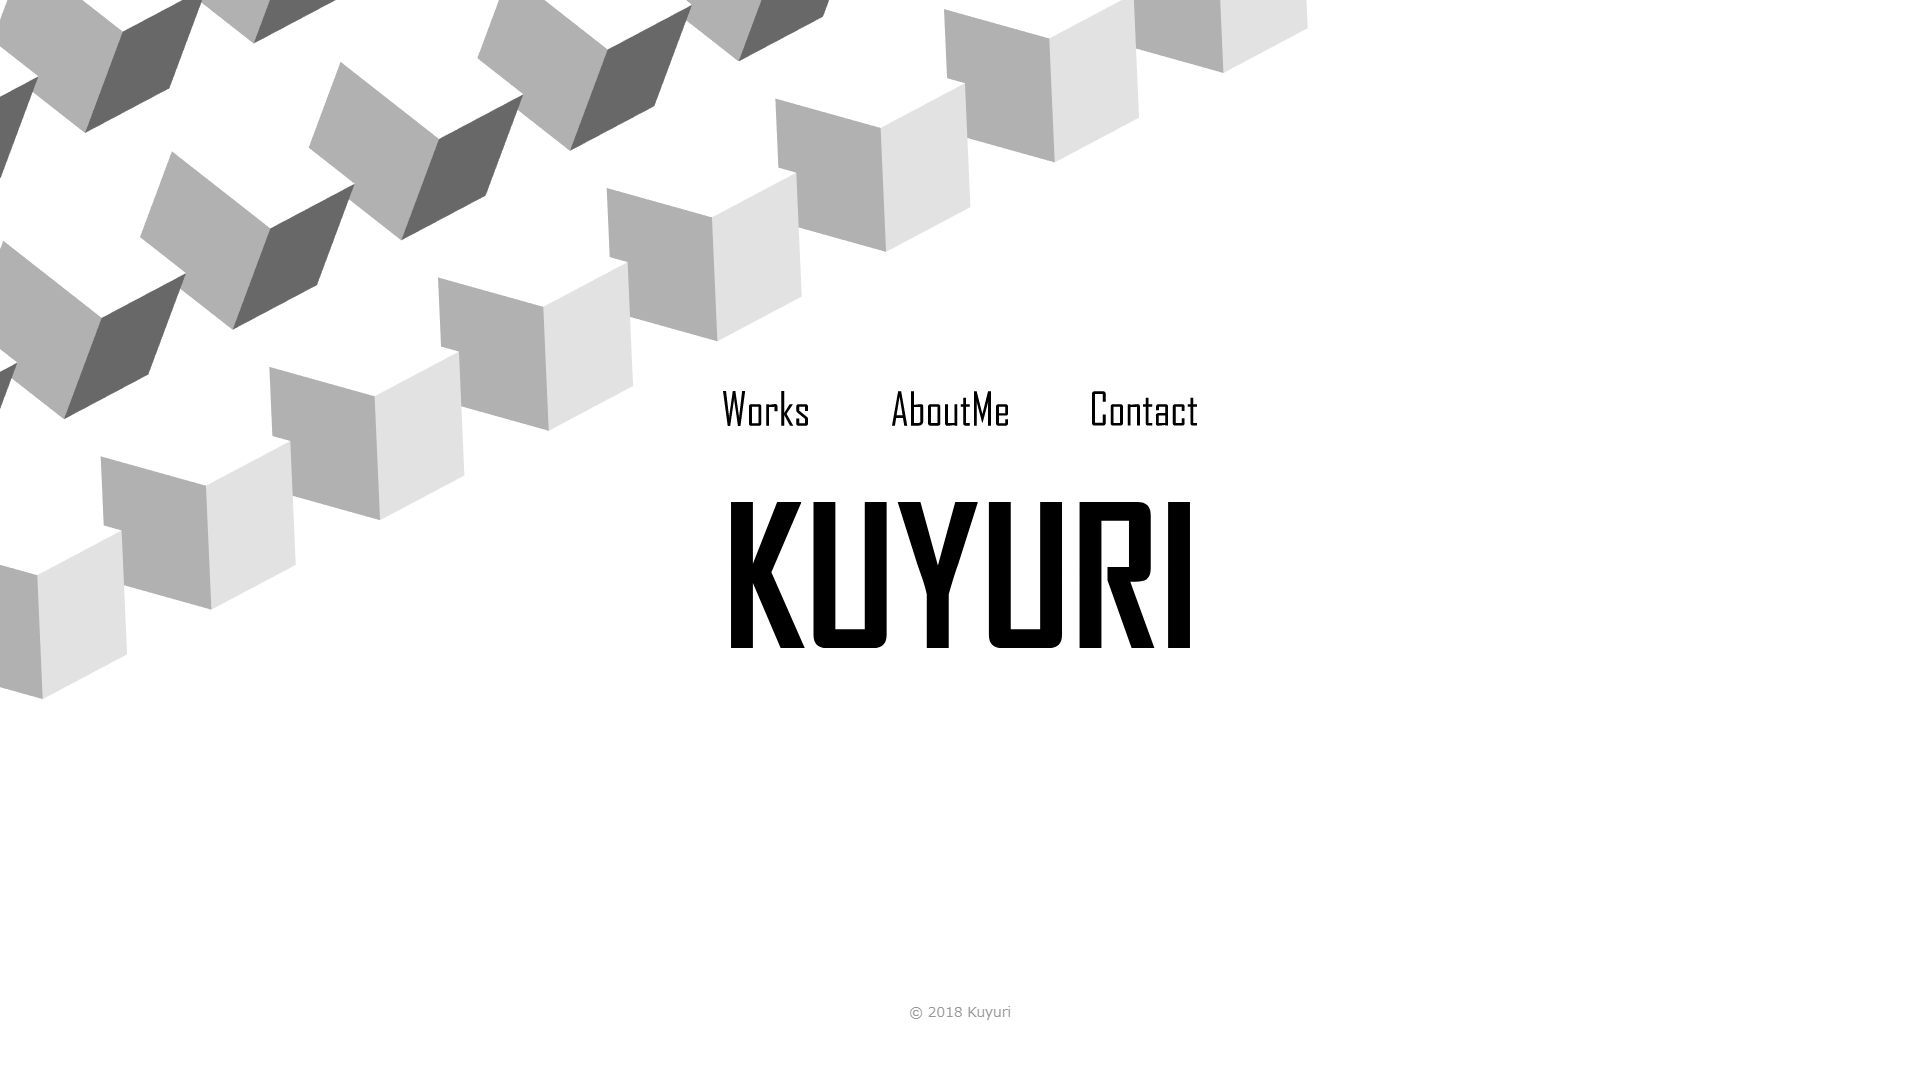
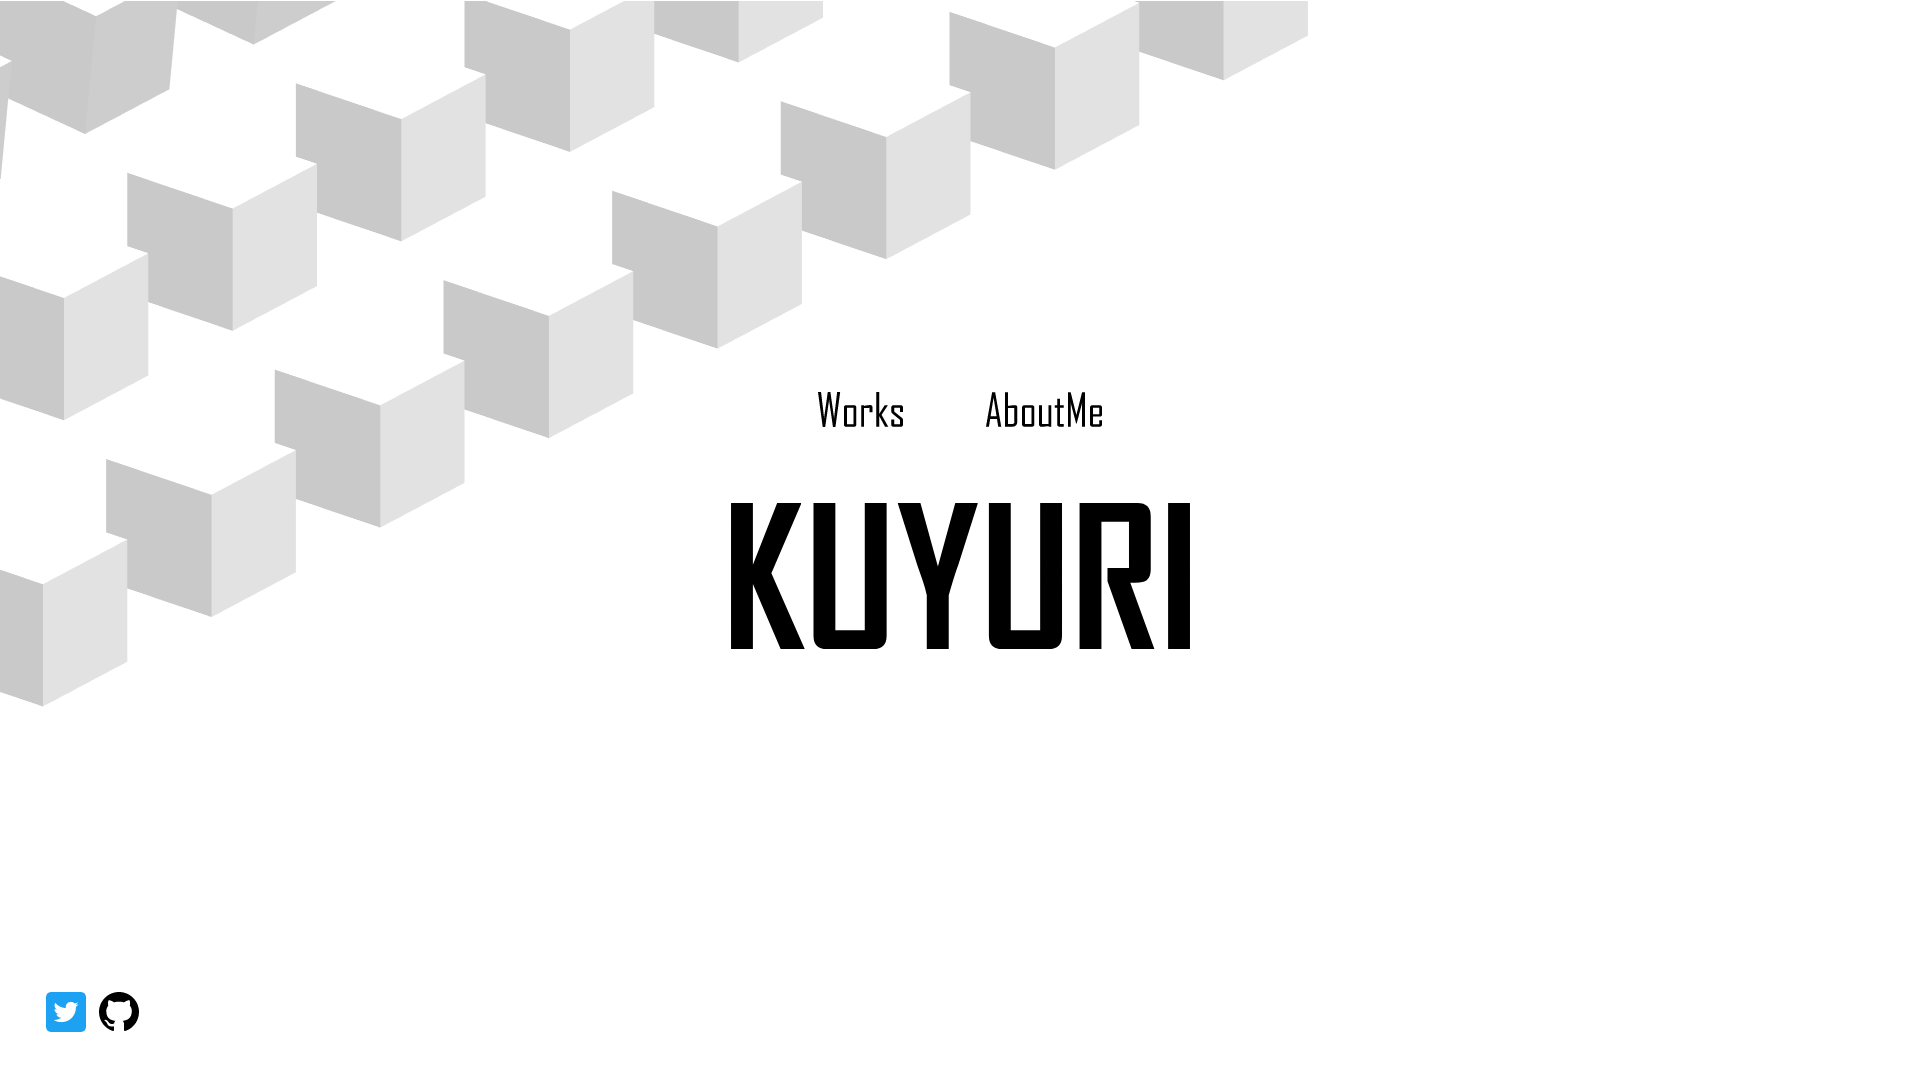
updated website

diff --git a/dist/index.html b/dist/index.html
@@ -2,7 +2,10 @@
 <html>
     <head>
         <meta charset="utf-8">
-        <title>MyWebSiteMainVisual-v.01</title>
+        <title>kuyuri-iroha.com-v.01</title>
+        <base href="">
+        <meta name="description" content="私、クユリいろはのウェブサイトです。">
+        <meta name="author" content="Kuyuri">
         <meta name="copyright" content="© 2018 Kuyuri">
         <meta name="viewport" content="width=device-width, initial-scale=1">
         <link rel="stylesheet" href="css/reset.css">
@@ -43,19 +46,11 @@
                             </div>
                         </a>
                     </li>
-                    <li class="k-globalNavItem">
-                        <a>
-                            <div class="k-animBox k-contact">
-                                <svg width="82px" viewBox="0 0 105.41 34.5">
-                                    <use xlink:href="#Contact"></use>
-                                </svg>
-                            </div>
-                        </a>
-                    </li>
                 </ul>
             </header>
             <section id="k-mainVitual">
                 <canvas id="k-mainVitualAnim"></canvas>
+                <div id="k-mainVitualMask"></div>
             </section>
             <main id="k-main">
                 <div id="k-topContents">
@@ -79,15 +74,6 @@
                                     </div>
                                 </a>
                             </li>
-                            <li class="k-navItem">
-                                <a>
-                                    <div class="k-animBox k-contact">
-                                        <svg width="105px" height="35px" viewBox="0 0 105.41 34.5">
-                                            <use xlink:href="#Contact"></use>
-                                        </svg>
-                                    </div>
-                                </a>
-                            </li>
                         </ul>
                     </nav>
                     <div id="k-mainLogo">
@@ -97,9 +83,6 @@
                     </div>
                 </div>
             </main>
-            <footer id="k-footer">
-                <div class="k-copywrite">© 2018 Kuyuri</div>
-            </footer>
             <svg id="k-svgDef" version="1.1" xmlns="http://www.w3.org/2000/svg" xmlns:xlink="http://www.w3.org/1999/xlink">
                 <defs>
                     <style>.cls-1 { fill-rule: evenodd; fill: #222, inherit; }</style>
@@ -107,7 +90,6 @@
                     <path id="Works" class="cls-1" d="M720.39 432.113l-2.922 24.807q-.109 1.626-.11 2.461-.043-1.626-.088-2.461l-3.537-24.807h-2.615l-3.56 24.807q-.11 1.626-.088 2.461-.064-1.626-.087-2.461l-2.923-24.807h-3.032l4.68 34.475h2.483l3.735-25.928q.088-1.319.088-2.021.066 1.339.088 2.021l3.736 25.928h2.482l4.681-34.475h-3.011zm19.029 15.487a2.195 2.195 0 0 0-2.483-2.483h-7.336a2.185 2.185 0 0 0-2.461 2.483v16.413a2.185 2.185 0 0 0 2.461 2.487h7.339a2.195 2.195 0 0 0 2.483-2.483v-16.417zm-9.361 16.325v-16.234h6.442v16.238h-6.438zm25.313-16.545a2.127 2.127 0 0 0-2.417-2.4 20.471 20.471 0 0 0-2.923.263q-1.471.243-2.922.462v-.593h-2.922v21.388h2.922v-18.589l5.383-.176v4.417h2.879v-4.768zm9.053 7.273l6.218-9.449v-.087h-3.142l-5.493 8.833v-21.837h-2.923v34.387h2.923v-10.9l5.888 10.9h3.186zm21.247 5.317a2.818 2.818 0 0 0-1.077-2.329l-7.712-6.262v-3.736h5.911v4.219h2.834v-4.262a2.195 2.195 0 0 0-2.483-2.483h-6.613a2.194 2.194 0 0 0-2.483 2.483v3.559a2.788 2.788 0 0 0 1.1 2.285l7.647 6.262v4.263h-5.911v-4.812h-2.884v4.856a2.194 2.194 0 0 0 2.483 2.483h6.7a2.195 2.195 0 0 0 2.483-2.483v-4.043z" transform="translate(-701.438 -432.125)"/>
                     <path id="News" class="cls-1" d="M867.258 432.113h-2.879v24.851l-9.008-24.851h-2.286v34.387h2.879v-25.291l9.184 25.291h2.11v-34.387zm17.095 28.037h-2.835v3.911h-6.284v-7.734h8.13l.989-1.033v-7.694a2.185 2.185 0 0 0-2.461-2.483h-7.032a2.185 2.185 0 0 0-2.46 2.483v16.413a2.185 2.185 0 0 0 2.461 2.483h7.032a2.185 2.185 0 0 0 2.461-2.483v-3.863zm-9.119-6.15v-6.44h6.284v6.44h-6.284zm30.322-8.877l-3.01 16.479-3.12-16.479h-2.549l-3.12 16.479-3.01-16.479h-2.747l4.417 21.423h2.57l3.142-16.238 3.142 16.238h2.615l4.417-21.423h-2.747zm17.864 14.853a2.818 2.818 0 0 0-1.077-2.329l-7.712-6.262v-3.736h5.911v4.219h2.834v-4.268a2.195 2.195 0 0 0-2.483-2.483h-6.614a2.195 2.195 0 0 0-2.479 2.483v3.559a2.787 2.787 0 0 0 1.1 2.285l7.647 6.262v4.263h-5.911v-4.812h-2.879v4.856a2.195 2.195 0 0 0 2.483 2.483h6.7a2.195 2.195 0 0 0 2.483-2.483v-4.043z" transform="translate(-853.094 -432.125)"/>
                     <path id="AboutMe" class="cls-1" d="M985.616 432.025h-3.01l-6.13 34.387v.088h2.944l1.209-7.646h6.833l1.209 7.646h3.029zm-4.592 24.126l3.032-18.633 3.011 18.633h-6.043zm26.736-8.767a2.132 2.132 0 0 0-2.43-2.4 28.364 28.364 0 0 0-3.45.285l-3.475.44v-13.6h-2.923v34.391h7.738a4.4 4.4 0 0 0 3.25-1.307 4.488 4.488 0 0 0 1.29-3.285v-14.524zm-5.31 16.545h-4.045v-16.018l6.435-.176v13.733a2.146 2.146 0 0 1-2.39 2.461zm22.37-16.325a2.2 2.2 0 0 0-2.49-2.483h-7.34a2.184 2.184 0 0 0-2.46 2.483v16.413a2.184 2.184 0 0 0 2.46 2.483h7.34a2.2 2.2 0 0 0 2.49-2.483v-16.417zm-9.36 16.325v-16.238h6.43v16.238h-6.43zm26.36-18.808h-2.88v18.588l-6.48.176v-18.764h-2.88v19.138a2.1 2.1 0 0 0 2.38 2.373 29.16 29.16 0 0 0 3.49-.264c1.16-.146 2.32-.3 3.49-.461v.593h2.88v-21.379zm12.46 18.808h-3.73v-16.238h3.73v-2.57h-3.73v-6.658h-2.88v6.658h-2.57v2.57h2.57v16.326a2.184 2.184 0 0 0 2.46 2.483h4.15v-2.571zm21.09-31.816h-2.83l-5.58 22.368a8.011 8.011 0 0 0-.09.989 7.672 7.672 0 0 0-.09-.989l-5.58-22.368h-2.83v34.387h2.88v-21.775c0-.293-.11-1.194-.31-2.7l5.62 21.248h.62l5.62-21.248q-.3 2.243-.3 2.7v21.775h2.87v-34.387zm17.1 28.037h-2.83v3.911h-6.29v-7.734h8.13l.99-1.033v-7.694a2.184 2.184 0 0 0-2.46-2.483h-7.03a2.184 2.184 0 0 0-2.46 2.483v16.413a2.184 2.184 0 0 0 2.46 2.483h7.03a2.184 2.184 0 0 0 2.46-2.483v-3.863zm-9.12-6.15v-6.44h6.29v6.44h-6.29z" transform="translate(-976.469 -432.031)"/>
-                    <path id="Contact" class="cls-1" d="M1139.77 455.338h-3.08v8.462h-7.65v-28.985h7.65v7.735h3.08v-8a2.34 2.34 0 0 0-.71-1.758 2.437 2.437 0 0 0-1.78-.681h-8.85a2.332 2.332 0 0 0-2.44 2.439v29.509a2.332 2.332 0 0 0 2.44 2.439h8.85a2.437 2.437 0 0 0 1.78-.681 2.34 2.34 0 0 0 .71-1.758v-8.723zm17.27-7.734a2.194 2.194 0 0 0-2.48-2.483h-7.34a2.184 2.184 0 0 0-2.46 2.483v16.413a2.184 2.184 0 0 0 2.46 2.483h7.34a2.194 2.194 0 0 0 2.48-2.483v-16.417zm-9.36 16.325v-16.238h6.44v16.238h-6.44zm26.41-16.545a2.136 2.136 0 0 0-2.44-2.4 29.048 29.048 0 0 0-3.47.263q-1.74.243-3.45.462v-.593h-2.92v21.384h2.92v-18.589l6.44-.176v18.765h2.92v-19.116zm12.41 16.545h-3.73v-16.238h3.73v-2.57h-3.73v-6.658h-2.88v6.658h-2.57v2.57h2.57v16.326a2.184 2.184 0 0 0 2.46 2.483h4.15v-2.571zm15.82-16.325a2.184 2.184 0 0 0-2.46-2.483h-7.03a2.184 2.184 0 0 0-2.46 2.483v3.6h2.84v-3.644h6.28v6.44h-6.88a2.185 2.185 0 0 0-2.48 2.46v7.8a2.106 2.106 0 0 0 2.39 2.373 29.624 29.624 0 0 0 3.45-.264q1.74-.219 3.48-.461v.592h2.87v-18.9zm-9.36 16.369v-7.69h6.53v7.558zm26.02-4.812h-2.88v4.768h-6.06v-16.238h6.06v4.175h2.88v-4.266a2.184 2.184 0 0 0-2.46-2.483h-6.95a2.184 2.184 0 0 0-2.46 2.483v16.413a2.184 2.184 0 0 0 2.46 2.483h6.95a2.184 2.184 0 0 0 2.46-2.483v-4.856zm12.44 4.768h-3.74v-16.238h3.74v-2.57h-3.74v-6.658h-2.88v6.658h-2.57v2.57h2.57v16.326a2.184 2.184 0 0 0 2.46 2.483h4.16v-2.571z" transform="translate(-1126 -432.125)"/>
                 </defs>
             </svg>
         </div>

diff --git a/dist/css/top.css b/dist/css/top.css
@@ -83,10 +83,6 @@ a:link, a:visited, a:hover, a:active {
     width: 120px;
     height: 55px;
 }
-#k-globalNavM .k-contact {
-    width: 112px;
-    height: 55px;
-}
 
 #k-mainVitualAnim {
     display: block;
@@ -95,6 +91,14 @@ a:link, a:visited, a:hover, a:active {
     position: fixed;
     z-index: 0;
 }
+#k-mainVitualMask {
+    display: block;
+    width: 100%;
+    height: 100%;
+    position: fixed;
+    z-index: 1;
+    background-color: rgba(255, 255, 255, 0.3);
+}
 
 #k-main {
     position: absolute;
@@ -102,7 +106,7 @@ a:link, a:visited, a:hover, a:active {
     left: 0;
     width: 100%;
     height: 100%;
-    z-index: 1;
+    z-index: 2;
 }
 
 /*Top page contants(Global navigation, Logo text)*/
@@ -156,11 +160,6 @@ a:link, a:visited, a:hover, a:active {
     width: 136px;
     height: 55px;
 }
-.k-contact {
-    margin: 0 0 0 0;
-    width: 125px;
-    height: 55px;
-}
 
 #k-mainLogo {
     display: inline-block;
@@ -177,7 +176,7 @@ a:link, a:visited, a:hover, a:active {
     height: 138px;
     bottom: 0;
     text-align: center;
-    z-index: 2;
+    z-index: 10;
 }
 .k-socialMedia {
     position: absolute;
